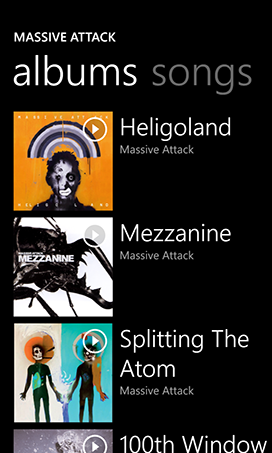
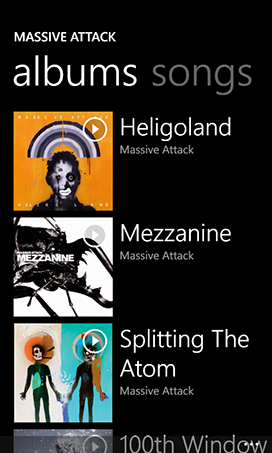
Added news item for Remote v2.1. Updated screenshots for 2.1 release.

diff --git a/web/news/index.php b/web/news/index.php
@@ -3,6 +3,22 @@
 <?php define('KOMO_TITLE', 'News'); ?>
 <?php require('header.php'); ?>
 <h2>Product News &amp; Updates</h2>
+<h3>Version 2.1</h3>
+<ul>
+	<li><strong>Podcasts, TV Shows, and Movies</strong> &ndash; improved appearance and functionality.</li>
+	<li><strong>Additional media types</strong> &ndash; added support for Audiobooks, iTunes U, and Internet Radio.</li>
+	<li><strong>Shared libraries</strong> &ndash; Remote now allows you to browse and select media from shared iTunes libraries.</li>
+	<li><strong>Automatic Wake-on-LAN</strong> &ndash; Remote now attempts to wake your computer when connecting.</li>
+	<li>Improved search functionality.</li>
+	<li>Added support for playlist folders</li>
+	<li>Added support for HTTP compression (gzip).</li>
+	<li>Fixed an issue with removing items from the play queue.</li>
+	<li>The currently playing song is now indicated with a speaker icon.</li>
+	<li>Unchecked songs now appear dimmed.</li>
+	<li>Added a navigation bar to the bottom of all library pages.</li>
+	<li>Other bug fixes.</li>
+</ul>
+<hr />
 <h3>Version 2.0.2</h3>
 <ul>
 	<li>Fixed a few crashes.</li>
